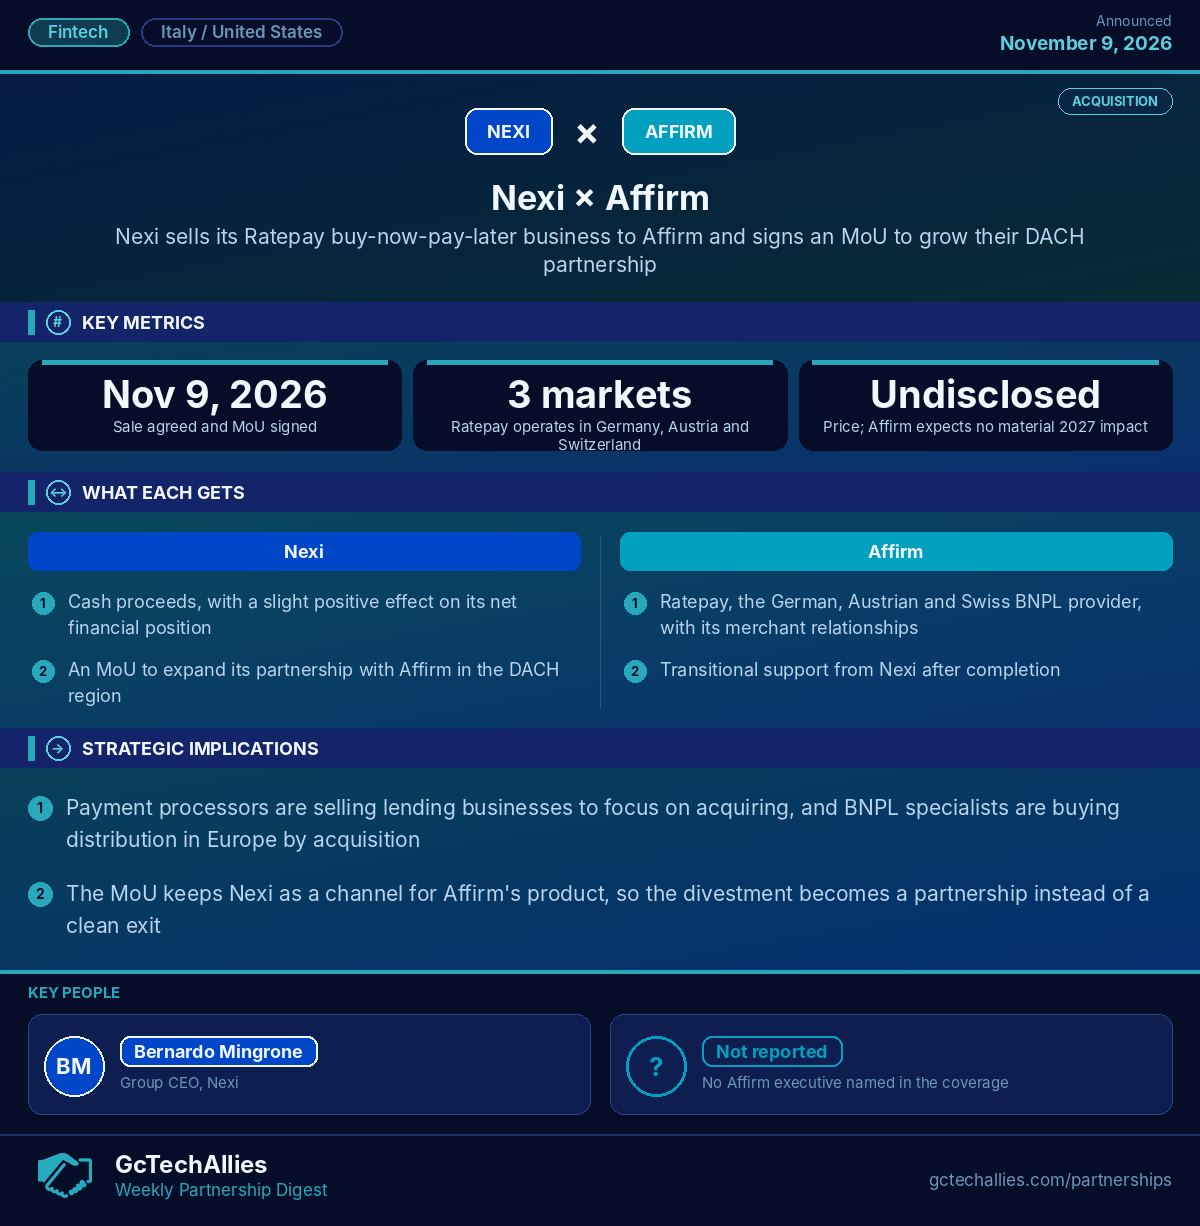
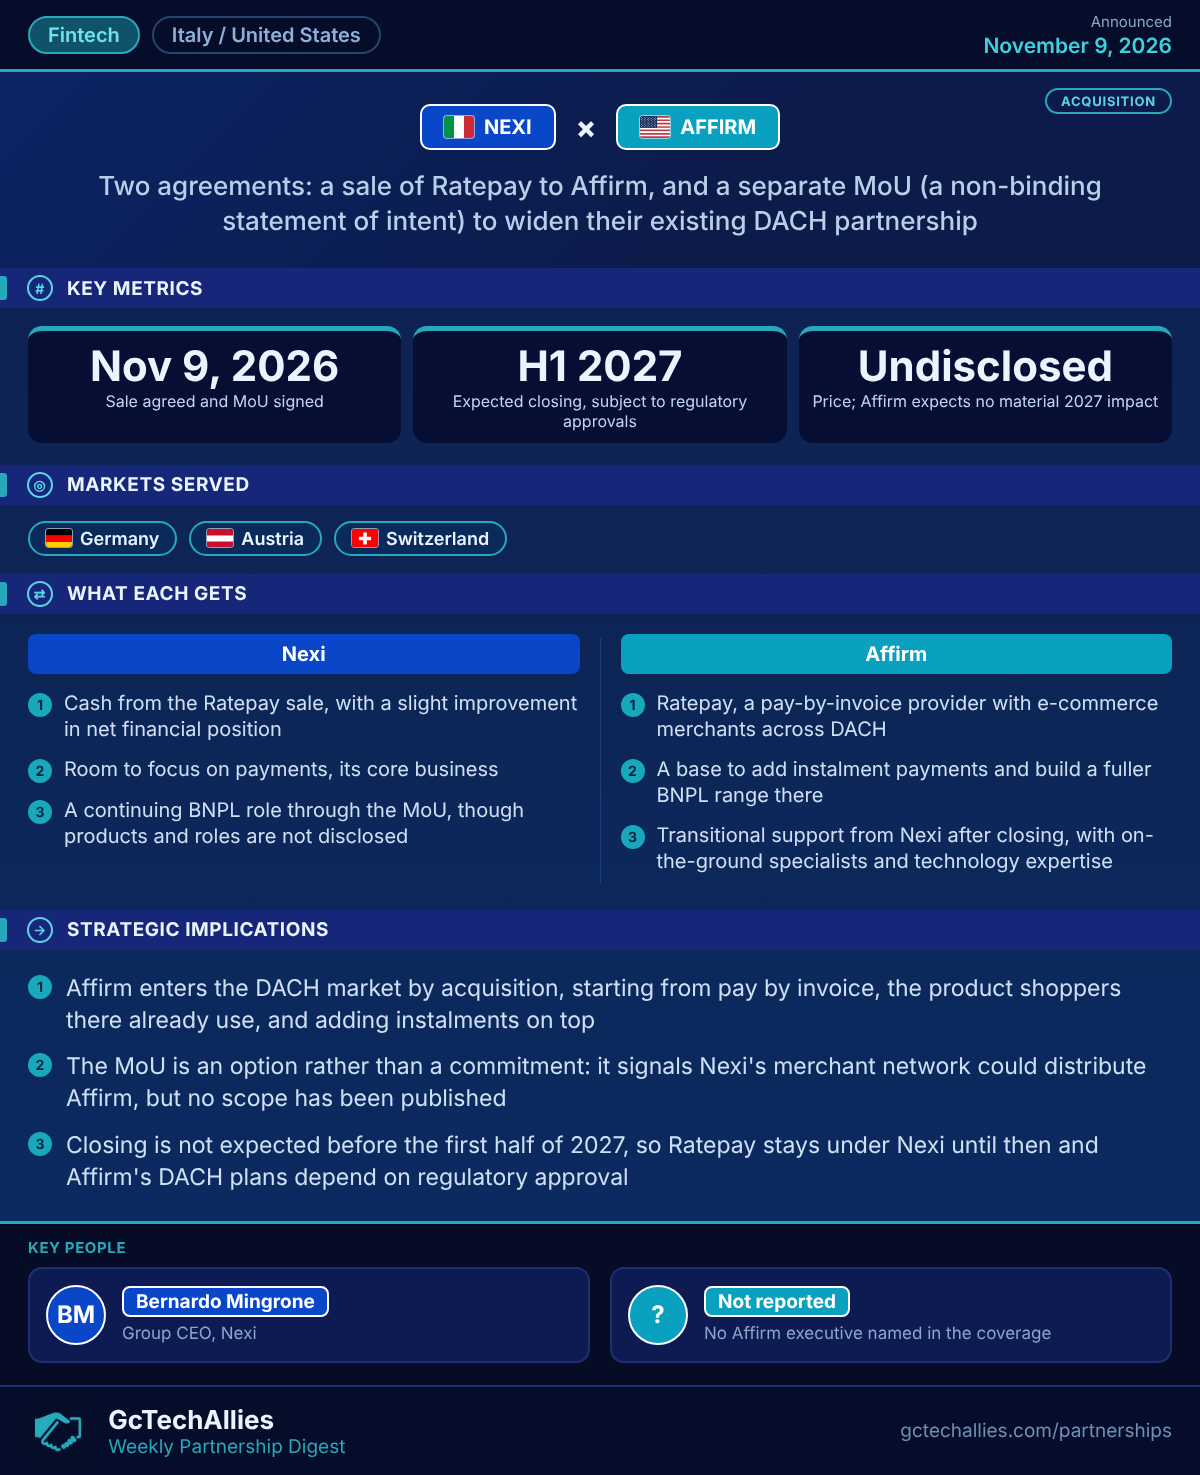
Nexi x Affirm card rebuilt: MoU explained, markets served
Claude-Session: https://claude.ai/code/session_01A6iFyZEohrap6MHJ3JA7vn

diff --git a/tools/card.py b/tools/card.py
@@ -16,7 +16,7 @@ def build(c):
     def col(x,items): return f'<div class="col"><div class="ch" style="background:{x["color"]}">{E(x["name"])}</div>'+''.join(f'<div class="b"><span class="n">{i+1}</span><span>{E(t)}</span></div>' for i,t in enumerate(items))+'</div>'
     gets=col(cs[0],c['gets'][0])+'<div class="dv"></div>'+col(cs[1],c['gets'][1])
     impl=''.join(f'<div class="b2"><span class="n">{i+1}</span><span>{E(t)}</span></div>' for i,t in enumerate(c['implications']))
-    ppl=''.join(f'<div class="p"><div class="av" style="background:{x["color"]}">{E("".join(w[0] for w in p[0].replace("Dr. ","").split()[:2]))}</div><div><div class="pn" style="background:{x["color"]}">{E(p[0])}</div><div class="pr">{E(p[1])}</div></div></div>' for x,p in zip(cs,c['people']))
+    ppl=''.join(f'<div class="p"><div class="av" style="background:{x["color"]}">{E("?" if p[0].startswith("Not ") else "".join(w[0] for w in p[0].replace("Dr. ","").split()[:2]))}</div><div><div class="pn" style="background:{x["color"]}">{E(p[0])}</div><div class="pr">{E(p[1])}</div></div></div>' for x,p in zip(cs,c['people']))
     mk=c.get('markets')
     mkt=''
     if mk:
